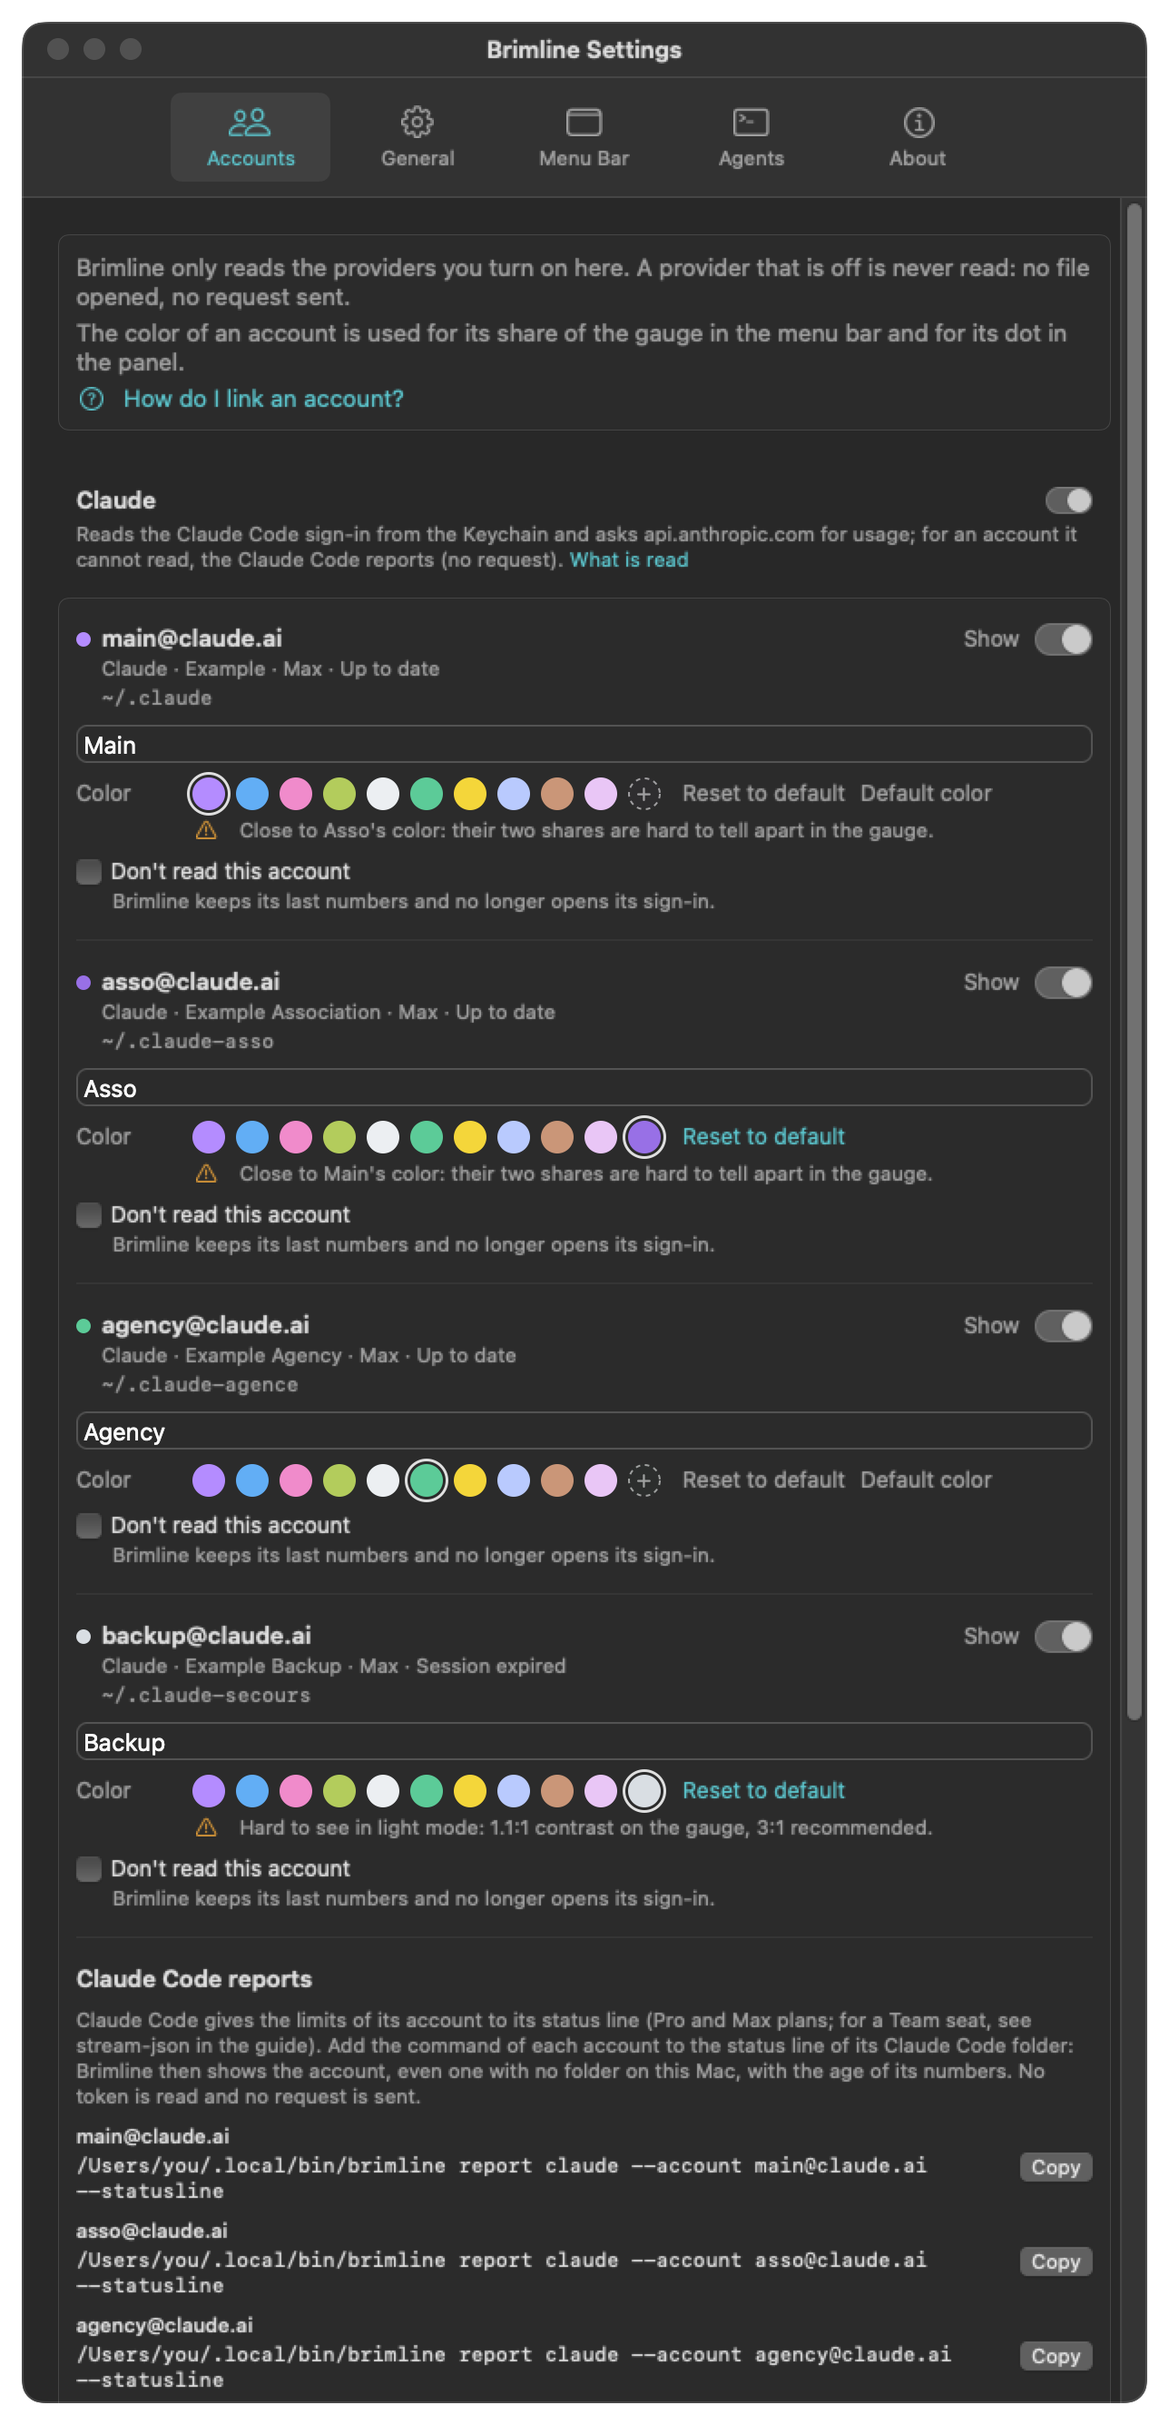
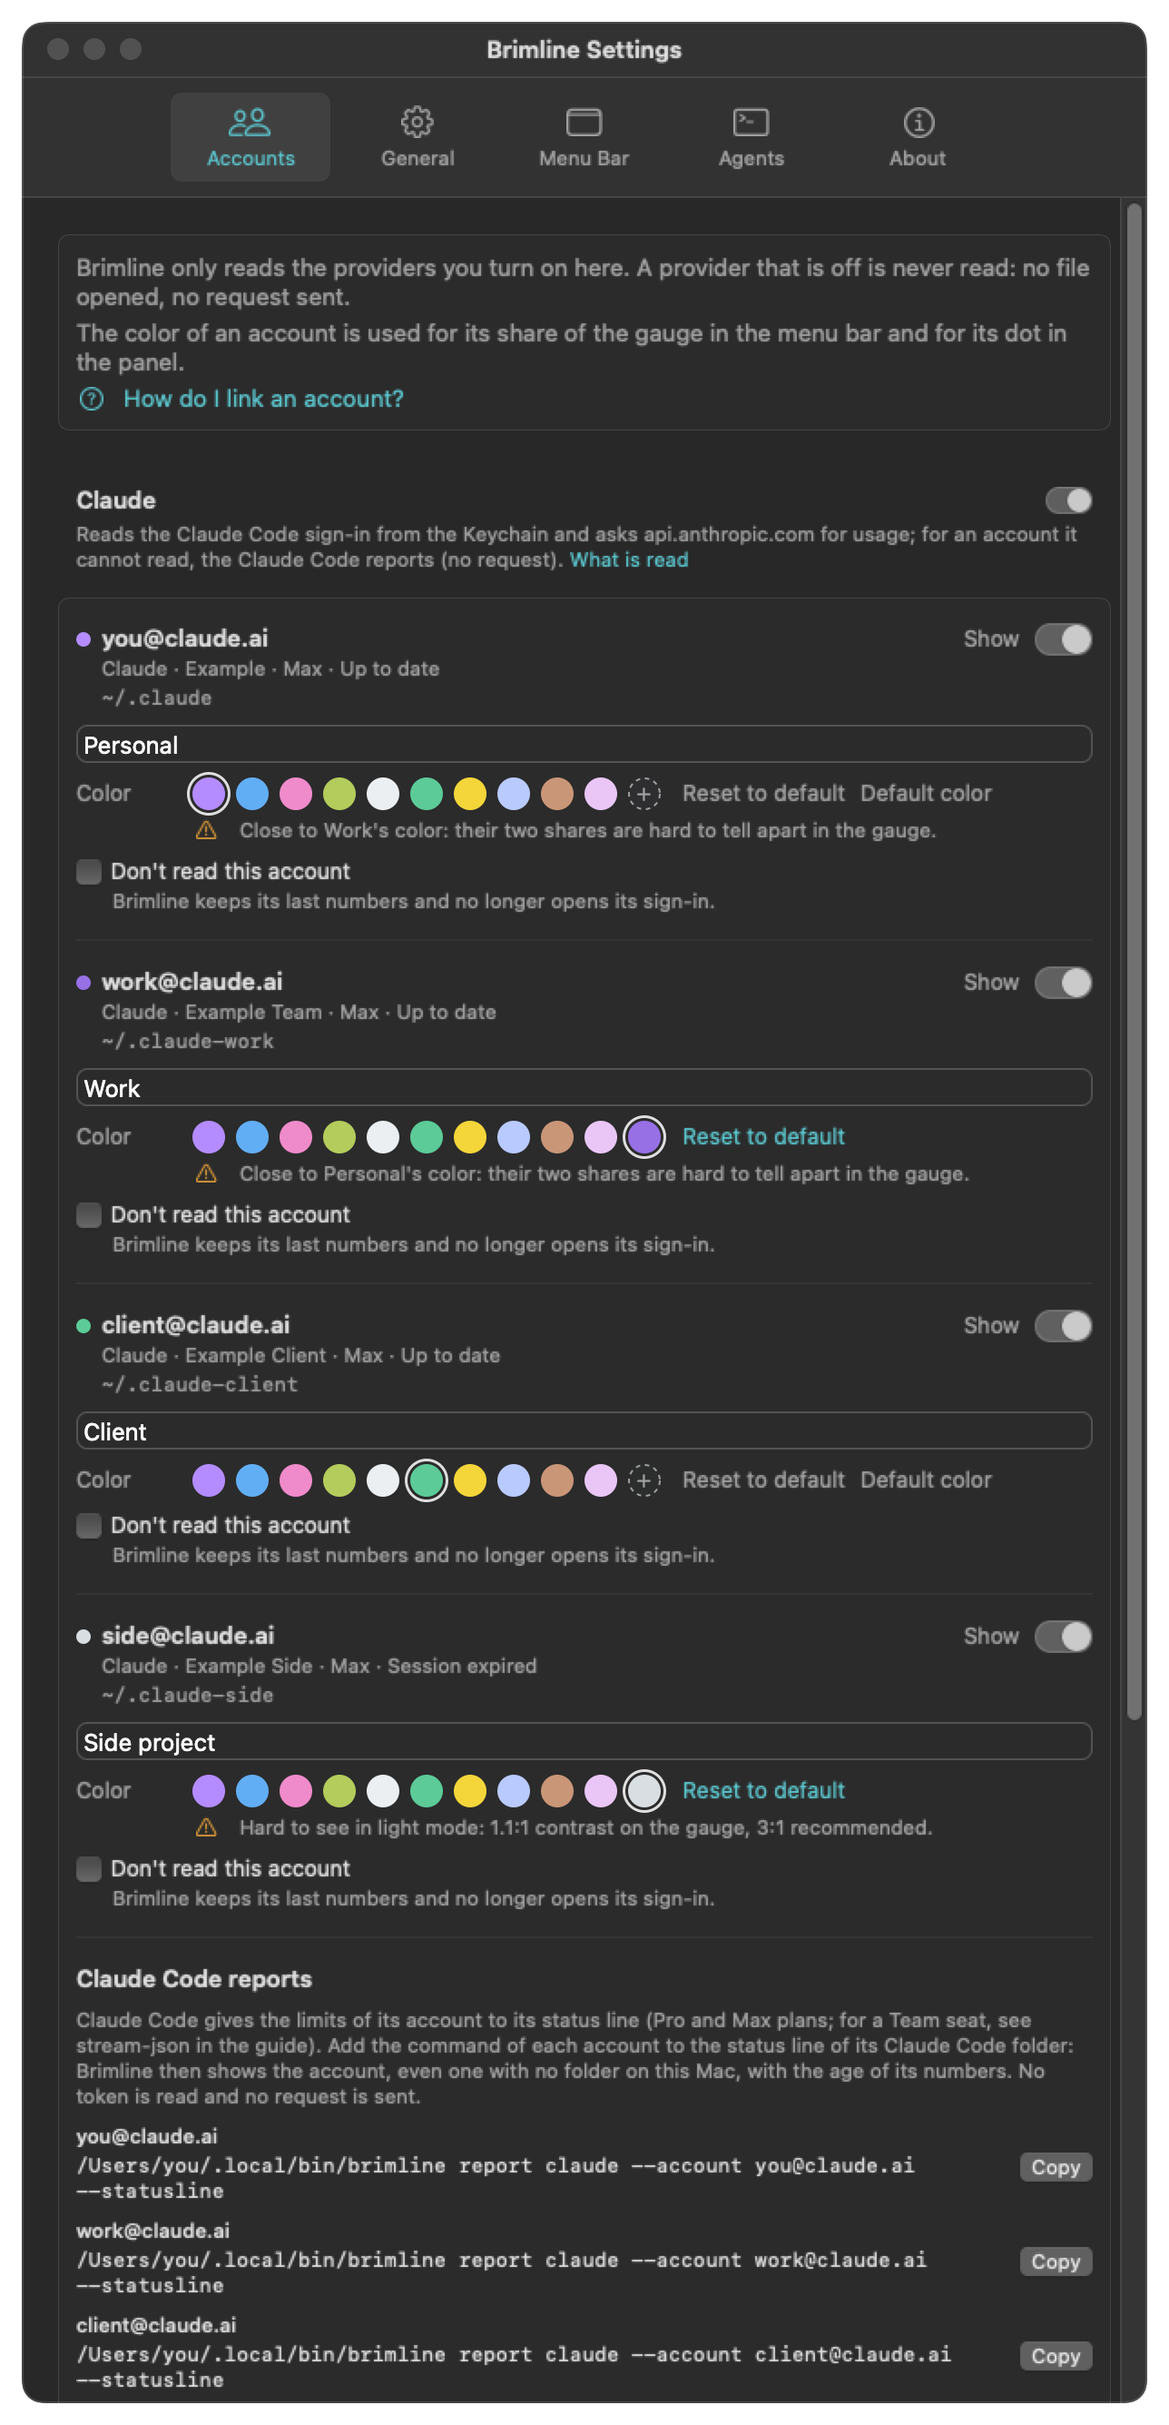
Captures : comptes d'exemple neutres (Personal, Work, Client, Side project)
Les quatre comptes Claude des captures du panneau et des couleurs ne
portent plus des noms qui ressemblent à de vrais comptes (Main, Asso,
Agency, Backup) : you@, work@, client@ et side@claude.ai, libellés
Personal, Work, Client et Side project (Perso, Travail, Client et Projet
perso en français). Exemples des avertissements de couleur alignés dans
le CHANGELOG, la doc et les tests. Captures régénérées.

diff --git a/Sources/BrimlineSnapshots/main.swift b/Sources/BrimlineSnapshots/main.swift
@@ -410,27 +410,27 @@ var accountsTabSettings: BrimlineSettings {
 
 let accountsTabUsages = [providerAccounts[0], providerAccounts[1], providerAccounts[2], providerAccounts[3], providerAccounts[6]]
 
-// Four Claude accounts of one person (QUOTA-72): the dots of the panel and the colors in the settings. Asso has a
-// free violet close to Principal's (in the dark appearance), Secours a free grey too pale for the light mode, to show both warnings.
-let principal = account("main@claude.ai", ".claude", org: "Example", seat: "max")
-let asso = account("asso@claude.ai", ".claude-asso", org: "Example Association", seat: "max")
-let agence = account("agency@claude.ai", ".claude-agence", org: "Example Agency", seat: "max")
-let secours = account("backup@claude.ai", ".claude-secours", org: "Example Backup", seat: "max")
+// Four Claude accounts of one person (QUOTA-72): the dots of the panel and the colors in the settings. Work has a
+// free violet close to Personal's (in the dark appearance), Side project a free grey too pale for the light mode, to show both warnings.
+let personal = account("you@claude.ai", ".claude", org: "Example", seat: "max")
+let work = account("work@claude.ai", ".claude-work", org: "Example Team", seat: "max")
+let client = account("client@claude.ai", ".claude-client", org: "Example Client", seat: "max")
+let side = account("side@claude.ai", ".claude-side", org: "Example Side", seat: "max")
 
 let fourClaude: [AccountUsage] = [
-    AccountUsage(account: principal, status: .ok, limits: [
+    AccountUsage(account: personal, status: .ok, limits: [
         UsageLimit(kind: .session, percent: 34, resetsAt: minutes(130)),
         UsageLimit(kind: .weekly, percent: 58, resetsAt: minutes(60 * 24 * 2 + 40)),
     ], fetchedAt: minutes(-2), checkedAt: minutes(-2)),
-    AccountUsage(account: asso, status: .ok, limits: [
+    AccountUsage(account: work, status: .ok, limits: [
         UsageLimit(kind: .session, percent: 12, resetsAt: minutes(130)),
         UsageLimit(kind: .weekly, percent: 22, resetsAt: minutes(60 * 24 * 2 + 40)),
     ], fetchedAt: minutes(-2), checkedAt: minutes(-2)),
-    AccountUsage(account: agence, status: .ok, limits: [
+    AccountUsage(account: client, status: .ok, limits: [
         UsageLimit(kind: .session, percent: 94, resetsAt: minutes(38)),
         UsageLimit(kind: .weekly, percent: 61, resetsAt: minutes(60 * 24 * 2 + 40)),
     ], fetchedAt: minutes(-2), checkedAt: minutes(-2)),
-    AccountUsage(account: secours, status: .expired, limits: [
+    AccountUsage(account: side, status: .expired, limits: [
         UsageLimit(kind: .weekly, percent: 9, resetsAt: minutes(60 * 24 * 4)),
     ], fetchedAt: minutes(-180), checkedAt: minutes(-2)),
 ]
@@ -440,21 +440,21 @@ var colorsSettings: BrimlineSettings {
     var s = BrimlineSettings()
     s.providerHintDismissed = true
     s.enabledProviders = [Provider.claude, .chatgpt, .gemini].map(\.rawValue)
-    s.labels = [principal.id: "Main", asso.id: "Asso", agence.id: "Agency", secours.id: "Backup"]
+    s.labels = [personal.id: "Personal", work.id: "Work", client.id: "Client", side.id: "Side project"]
     return s
 }
 
-/// The same, in French, with the names the board of lot D uses.
+/// The same, in French.
 var colorsSettingsFR: BrimlineSettings {
     var s = colorsSettings
-    s.labels = [principal.id: "Principal", asso.id: "Asso", agence.id: "Agence", secours.id: "Secours"]
+    s.labels = [personal.id: "Perso", work.id: "Travail", client.id: "Client", side.id: "Projet perso"]
     return s
 }
 
-/// With the two warnings: Asso's free violet is close to Principal's, Secours' free grey is too pale for light mode.
+/// With the two warnings: Work's free violet is close to Personal's, Side project's free grey is too pale for light mode.
 func withWarnings(_ settings: BrimlineSettings) -> BrimlineSettings {
     var s = settings
-    s.accountColors = [asso.id: .custom("9870E6"), secours.id: .custom("D9DEE3")]
+    s.accountColors = [work.id: .custom("9870E6"), side.id: .custom("D9DEE3")]
     return s
 }
 

diff --git a/tests/BrimlineUITests/AccountColorSettingsTests.swift b/tests/BrimlineUITests/AccountColorSettingsTests.swift
@@ -98,25 +98,25 @@ struct AccountColorSettingsTests {
     @Test("Two visible accounts with close colors are warned, each naming the other by the name the panel gives it")
     func closeWarning() throws {
         let m = model([a, b, c]) {
-            $0.labels = [a.id: "Main", b.id: "Asso"]
+            $0.labels = [a.id: "Personal", b.id: "Client"]
             $0.accountColors = [a.id: .palette(0), b.id: .custom("9870E6"), c.id: .palette(5)]
         }
         let forA = m.colorWarnings(for: a)
         #expect(forA == [.close(accountID: b.id)])
-        #expect(m.text(for: try #require(forA.first)) == "Close to Asso's color: their two shares are hard to tell apart in the gauge.")
+        #expect(m.text(for: try #require(forA.first)) == "Close to Client's color: their two shares are hard to tell apart in the gauge.")
         #expect(m.colorWarnings(for: b) == [.close(accountID: a.id)])
-        #expect(m.text(for: try #require(m.colorWarnings(for: b).first)).contains("Main"))
+        #expect(m.text(for: try #require(m.colorWarnings(for: b).first)).contains("Personal"))
         #expect(m.colorWarnings(for: c).isEmpty)
     }
 
     @Test("The warning is in French when the interface is")
     func closeWarningInFrench() throws {
         let m = model([a, b], language: .fr) {
-            $0.labels = [a.id: "Principal", b.id: "Asso"]
+            $0.labels = [a.id: "Perso", b.id: "Client"]
             $0.accountColors = [a.id: .palette(0), b.id: .custom("9870E6")]
         }
         #expect(m.text(for: try #require(m.colorWarnings(for: a).first))
-            == "Proche de la couleur de Asso : leurs deux parts se distinguent mal dans la jauge.")
+            == "Proche de la couleur de Client : leurs deux parts se distinguent mal dans la jauge.")
     }
 
     @Test("A hidden account, or one of a provider that is off, is not compared: the gauge does not show it")

diff --git a/tests/BrimlineCoreTests/AccountColorWarningsTests.swift b/tests/BrimlineCoreTests/AccountColorWarningsTests.swift
@@ -123,12 +123,12 @@ struct AccountColorWarningsTests {
 
     @Test("The sentences of the warnings, French and English, with the decimal comma in French")
     func sentences() {
-        let name: (String) -> String = { _ in "Asso" }
+        let name: (String) -> String = { _ in "Client" }
         let fr = Strings(.fr), en = Strings(.en)
         #expect(fr.colorWarning(.close(accountID: "x"), account: name)
-            == "Proche de la couleur de Asso : leurs deux parts se distinguent mal dans la jauge.")
+            == "Proche de la couleur de Client : leurs deux parts se distinguent mal dans la jauge.")
         #expect(en.colorWarning(.close(accountID: "x"), account: name)
-            == "Close to Asso's color: their two shares are hard to tell apart in the gauge.")
+            == "Close to Client's color: their two shares are hard to tell apart in the gauge.")
         #expect(fr.colorWarning(.lowContrast(dark: false, ratio: 1.4), account: name)
             == "Peu visible en mode clair : contraste de 1,4:1 sur la jauge, 3:1 conseillé.")
         #expect(en.colorWarning(.lowContrast(dark: true, ratio: 2.5), account: name)

diff --git a/Sources/BrimlineUI/AccountColorRow.swift b/Sources/BrimlineUI/AccountColorRow.swift
@@ -53,7 +53,7 @@ struct AccountColorRow: View {
                         }
                     }
                 }
-                // One group with one choice, as VoiceOver reads a set of radio buttons: "Color of Asso", then each
+                // One group with one choice, as VoiceOver reads a set of radio buttons: "Color of Client", then each
                 // name. "Other color…" stays outside it: the representation replaces what it covers, and the real
                 // picker must stay reachable.
                 .accessibilityRepresentation {

diff --git a/tests/BrimlineCoreTests/AccountColorsTests.swift b/tests/BrimlineCoreTests/AccountColorsTests.swift
@@ -172,7 +172,7 @@ struct AccountColorsTests {
 
     @Test("Four Claude accounts get four different colors, the first one the violet")
     func fourClaude() {
-        let accounts = ["main", "asso", "agence", "secours"].map { acct(.claude, $0) }
+        let accounts = ["personal", "work", "client", "side"].map { acct(.claude, $0) }
         var settings = BrimlineSettings()
         settings.assignDefaultColors(to: accounts)
         let slots = accounts.map { slot(settings.accountColors[$0.id]) }

diff --git a/CHANGELOG.md b/CHANGELOG.md
@@ -33,7 +33,7 @@ Brimline 0.2.0 is the first version under the name Brimline (it was Sightglass),
 
 - **The rules of the per-account gauge and of the account colors.** The menu bar and the panel draw from the same rules. The gauge is one part per account that has a number (its tightest limit now, divided by the number of those accounts, so the whole is their average and never goes over 100 %; an account whose sign-in is missing, refused or not readable is left out even when it keeps old numbers, as in the choice of the best account), with an alert from 90 % whatever the average is, accounts with no number named apart, and a last known value marked as such. Each account gets one of ten colors the first time it is seen and keeps it (`accountColors` in `settings.json`, read one by one: a value that is not valid is ignored, and a settings file from an earlier version reads as before). The palette and a free color are checked for contrast (WCAG 2.2) and for distance between colors (CIEDE2000), and the gauge has its VoiceOver sentence, in English and French.
 
-- **A color for each account, in the panel and in the settings.** Every account has a round dot of its color before its name in the menu bar window (a card that holds a sentence only, like Gemini's, now has its title and its dot too), and **Settings, Accounts** has a **Color** line under each account: the ten colors of the palette (violet, blue, magenta, olive, ink, pine, gold, navy, cocoa, lilac), **Other color…** (the system color picker, without opacity, kept as six sRGB digits and served in the light and in the dark appearance alike), and **Reset to default**, which gives back the color the rule gives now (greyed, with "Default color", when nothing was changed). The first account of a provider has its provider's color, the next ones the first free color; a color is given once and kept (`accountColors` in `settings.json`), so it does not move when another account appears. Two warnings, never a refusal: a color close to another visible account's ("Close to Asso's color: their two shares are hard to tell apart in the gauge.", shown on both accounts, CIEDE2000 under 10 in light or in dark) and a free color too pale or too dark for the gauge's track ("Hard to see in light mode: 1.1:1 contrast on the gauge, 3:1 recommended."). The line is one group for VoiceOver ("Color of Asso", one choice per color, each named) and each color is a button the keyboard reaches. The group headings of the panel and of the settings lose their provider dot, so that a color means one thing: an account. The limit gauges of the panel keep their threshold colors. See [docs/accounts.md](docs/accounts.md).
+- **A color for each account, in the panel and in the settings.** Every account has a round dot of its color before its name in the menu bar window (a card that holds a sentence only, like Gemini's, now has its title and its dot too), and **Settings, Accounts** has a **Color** line under each account: the ten colors of the palette (violet, blue, magenta, olive, ink, pine, gold, navy, cocoa, lilac), **Other color…** (the system color picker, without opacity, kept as six sRGB digits and served in the light and in the dark appearance alike), and **Reset to default**, which gives back the color the rule gives now (greyed, with "Default color", when nothing was changed). The first account of a provider has its provider's color, the next ones the first free color; a color is given once and kept (`accountColors` in `settings.json`), so it does not move when another account appears. Two warnings, never a refusal: a color close to another visible account's ("Close to Client's color: their two shares are hard to tell apart in the gauge.", shown on both accounts, CIEDE2000 under 10 in light or in dark) and a free color too pale or too dark for the gauge's track ("Hard to see in light mode: 1.1:1 contrast on the gauge, 3:1 recommended."). The line is one group for VoiceOver ("Color of Client", one choice per color, each named) and each color is a button the keyboard reaches. The group headings of the panel and of the settings lose their provider dot, so that a color means one thing: an account. The limit gauges of the panel keep their threshold colors. See [docs/accounts.md](docs/accounts.md).
 
 - **The menu bar shows who consumes: the glyph lies down and becomes a gauge in colors.** One part per account that has a number, packed to the left in the panel's order, in the color of its account (the average of the accounts fills the gauge, never more than 100 %); the limit line at its end becomes a red "!" from 90 % on one account, whatever the average is; a last known value is dimmed; a part that is not empty is at least one pixel; the element is 50 to 74 pt wide (80 at most) and 18 pt high, drawn on the pixel grid at 1x and 2x, with the colors of the bar's real appearance (a dark bar on a Mac in light mode gets the dark values). With no counted account, the upright glyph stays, as a template image. The percentage next to it, when the setting is on, is the most loaded account's; the tooltip gives the average and the alerts, and VoiceOver reads one sentence, the alert first. The element is a colored image, so it is no longer a template image the system tints: a change on purpose to Apple's advice for menu bar icons, written in `design/DA.md`. Pictures: `docs/images/menubar-gauge-light.png` and `-dark.png`.
 

diff --git a/docs/accounts.fr.md b/docs/accounts.fr.md
@@ -60,7 +60,7 @@ Brimline prévient, et ne refuse jamais :
 - **proche de la couleur d'un autre compte** : les deux comptes sont désignés, et leurs parts se distinguent mal dans la jauge (une distance CIEDE2000 sous 10, en clair ou en sombre). Les comptes masqués et ceux d'un fournisseur coupé ne sont pas comparés ;
 - **peu visible** : une couleur libre trop pâle ou trop sombre pour la piste vide d'une jauge (contraste sous 3:1, la limite WCAG 2.2 pour les éléments graphiques), en mode clair ou sombre, avec son rapport écrit. Les dix couleurs de la palette atteignent toutes 3:1.
 
-La couleur n'est jamais le seul signal : chaque compte est nommé à côté de sa pastille. Au clavier, chaque couleur est un bouton atteint avec Tab (avec l'accès complet au clavier activé dans Réglages Système) et choisi avec la barre d'espace. VoiceOver lit un groupe par compte (« Couleur de Asso ») avec un choix nommé par couleur.
+La couleur n'est jamais le seul signal : chaque compte est nommé à côté de sa pastille. Au clavier, chaque couleur est un bouton atteint avec Tab (avec l'accès complet au clavier activé dans Réglages Système) et choisi avec la barre d'espace. VoiceOver lit un groupe par compte (« Couleur de Client ») avec un choix nommé par couleur.
 
 ![Les couleurs dans les réglages](images/settings-colors-fr-light.png)
 

diff --git a/docs/accounts.md b/docs/accounts.md
@@ -60,7 +60,7 @@ Brimline warns, and never refuses:
 - **close to another account's color**: the two accounts are shown, and their parts are hard to tell apart in the gauge (a CIEDE2000 distance under 10, in light or in dark). Hidden accounts and accounts of a provider that is off are not compared;
 - **hard to see**: a free color too pale or too dark for the empty track of a gauge (under 3:1 contrast, the WCAG 2.2 limit for graphics), in light or in dark mode, with its ratio written. The ten colors of the palette all reach 3:1.
 
-The color is never the only signal: every account is named beside its dot. With the keyboard, each color is a button reached with Tab (with Full Keyboard Access on in System Settings) and chosen with Space. VoiceOver reads one group per account ("Color of Asso") with one named choice per color.
+The color is never the only signal: every account is named beside its dot. With the keyboard, each color is a button reached with Tab (with Full Keyboard Access on in System Settings) and chosen with Space. VoiceOver reads one group per account ("Color of Client") with one named choice per color.
 
 ![Colors in the settings](images/settings-colors-light.png)
 
